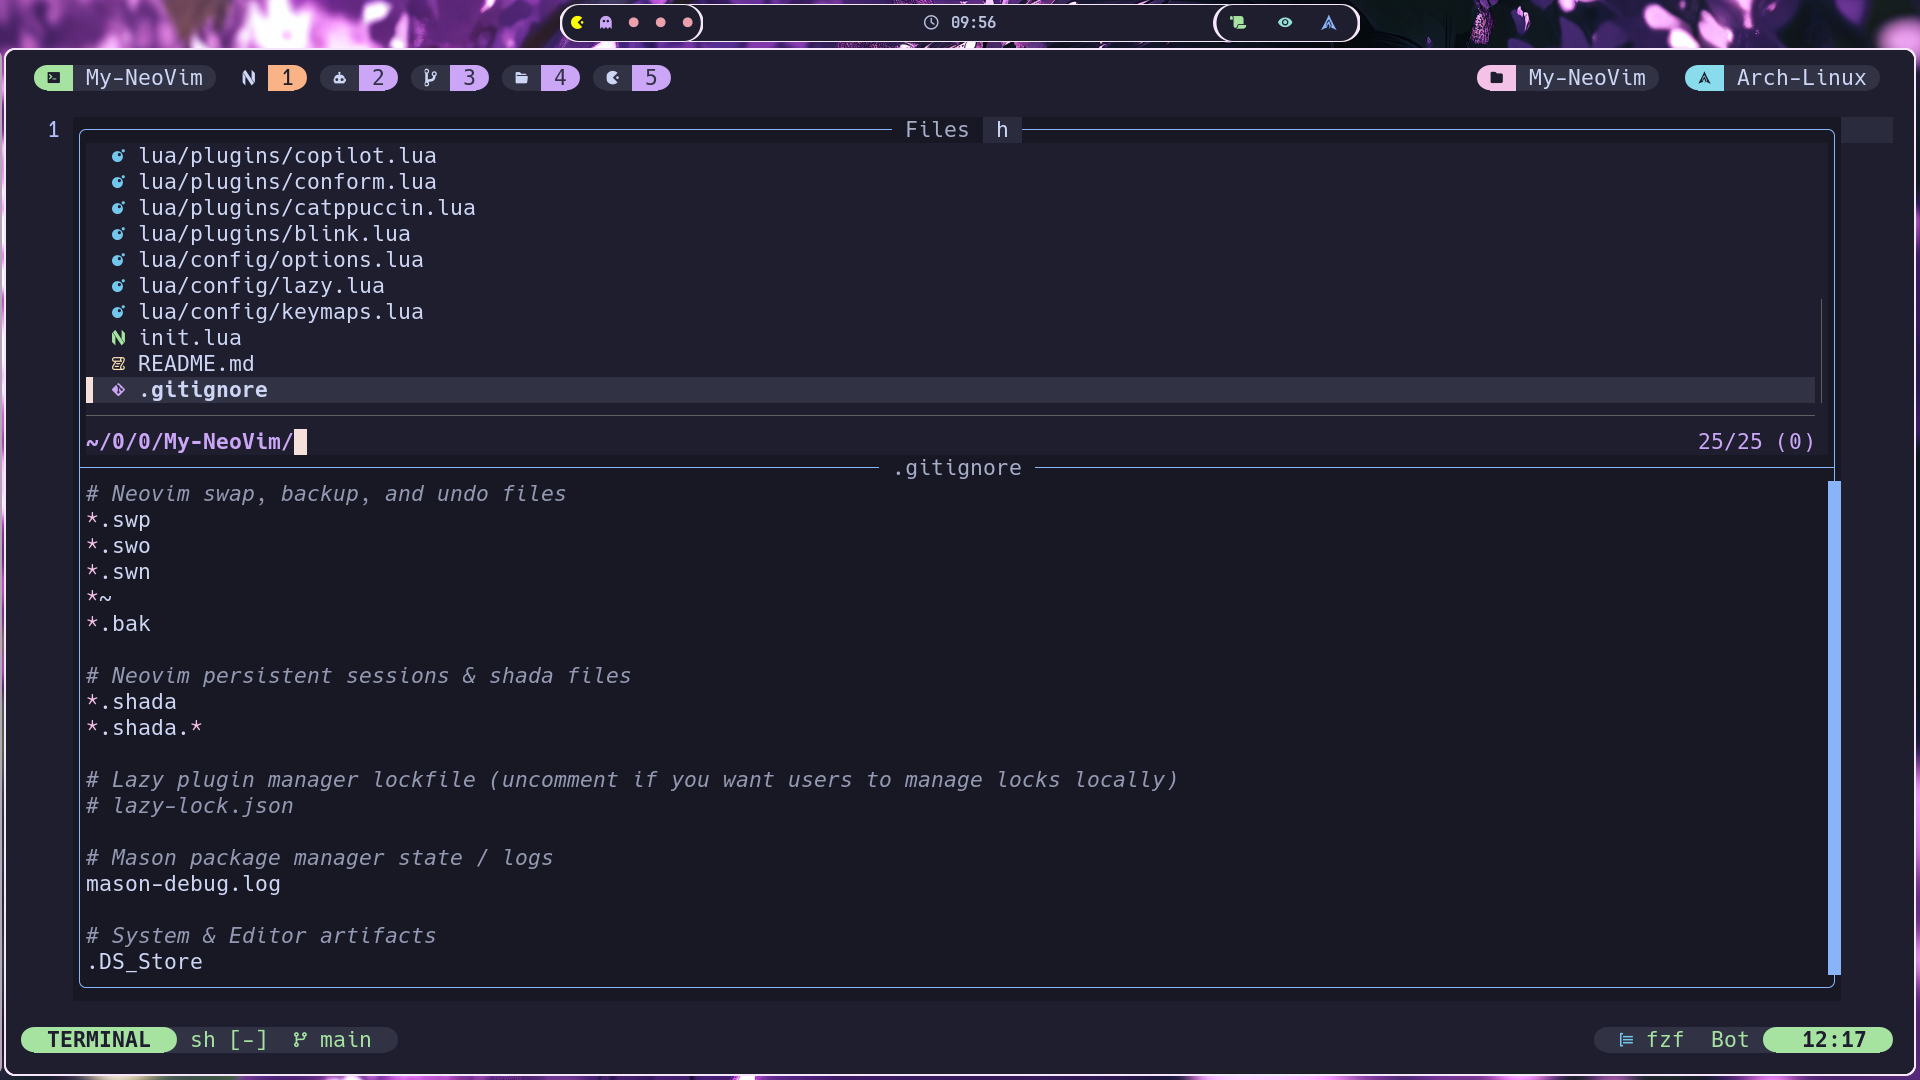
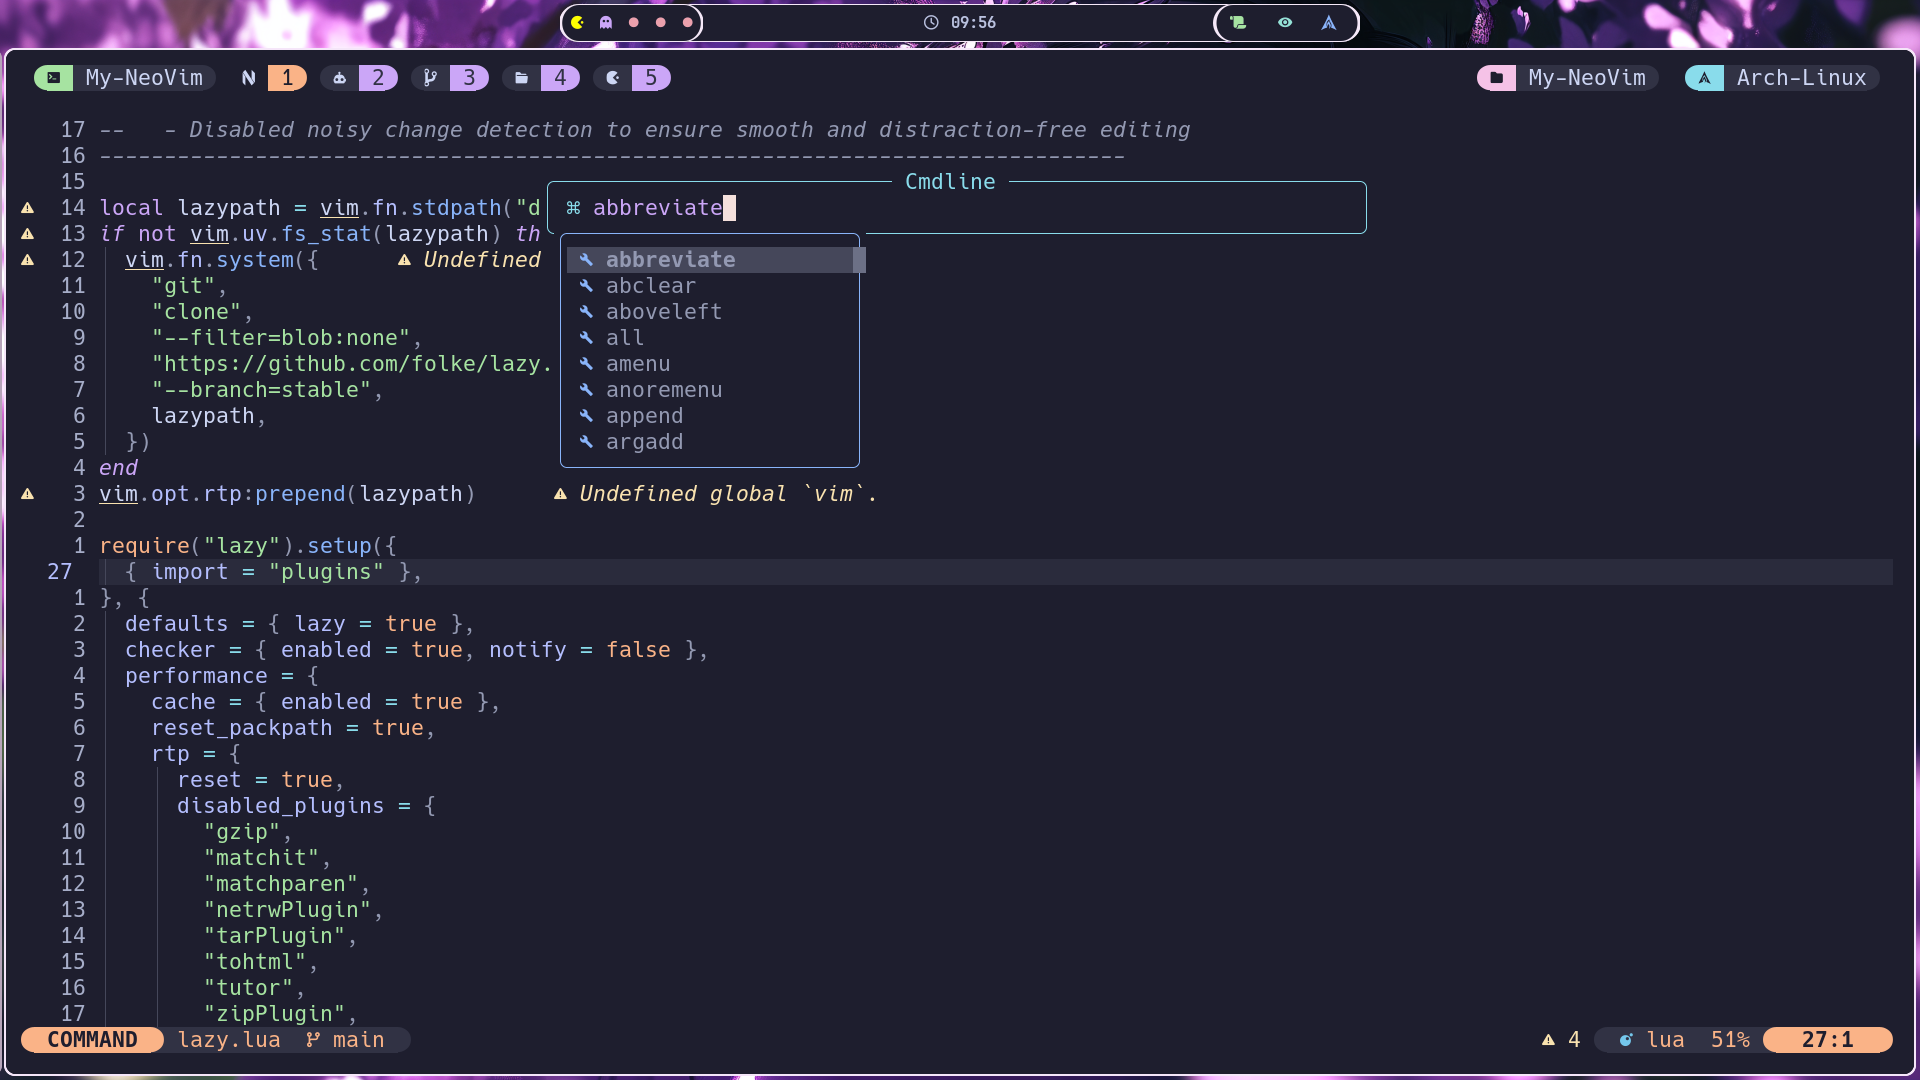
rename fzf

diff --git a/README.md b/README.md
@@ -14,7 +14,7 @@ A modern, streamlined, and modular Neovim configuration built for speed, aesthet
 
 <div align="center">
   <img src="ScreenShots/lazy-profile-preview.png" alt="Lazy Profile & Fast Startup Benchmark" width="49%" />
-  <img src="ScreenShots/noice-preview.png" alt="Noice Floating UI & Command Palette" width="49%" />
+  <img src="ScreenShots/fzf-preview.png" alt="Noice Floating UI & Command Palette" width="49%" />
 </div>
 
 ---
